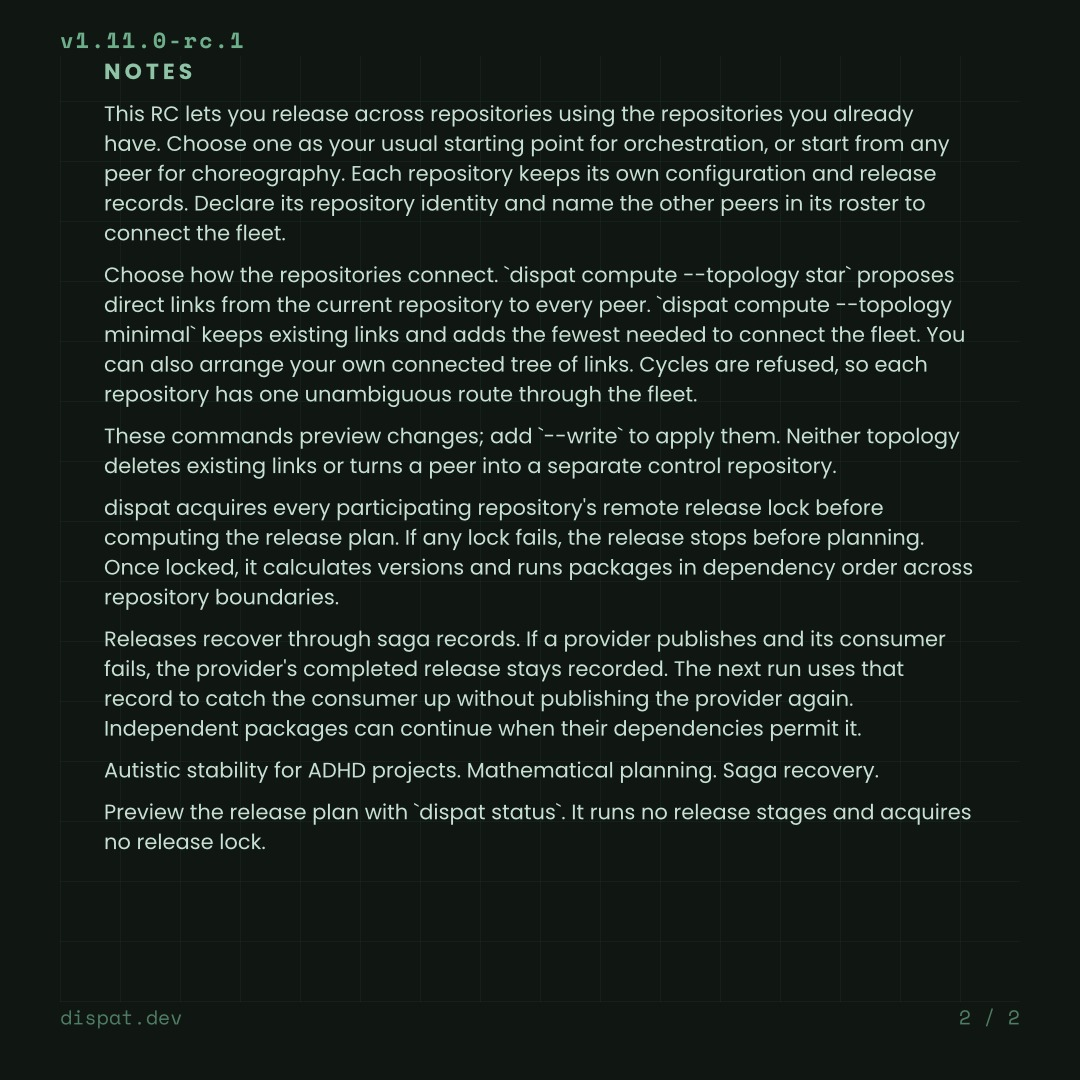
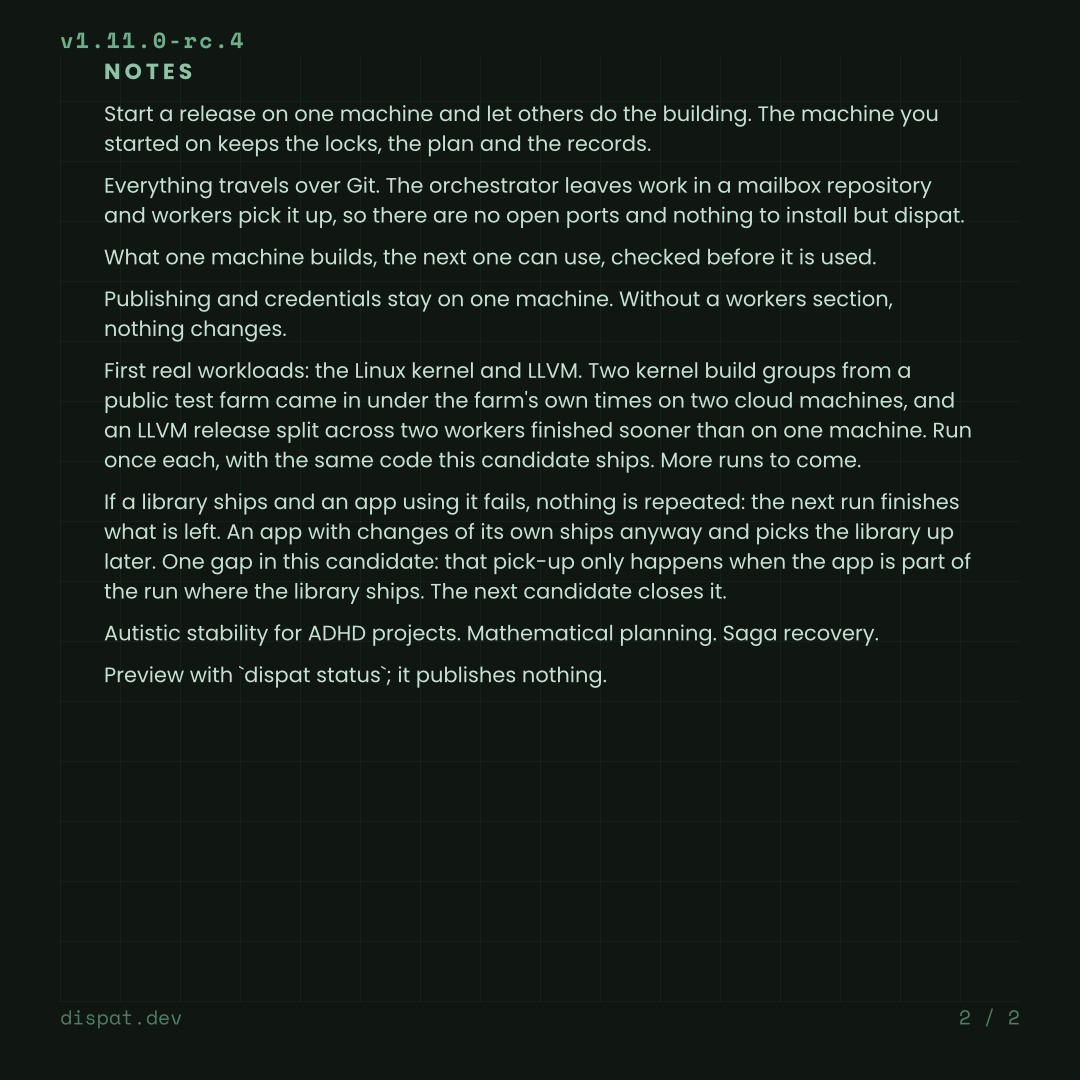
chore(dispat): announce the first parity runs in the release candidate notes
The candidate's caption and card now say, in plain words, what this
candidate was first tried on: two Linux kernel build groups from a
public test farm that came in under the farm's own times on two cloud
machines, and an LLVM release split across two workers that finished
sooner than on one machine, each run once with the code this candidate
ships. The worker-node paragraphs are shortened to the same register,
the recovery paragraph keeps the known gap and says the next candidate
closes it, and seven hashtags are added. The card carries the same
words and the previews are re-rendered for this candidate (crier 1.1.0
dry run: LinkedIn and Instagram 1913 of 2200 characters, Discord 726 of
2000).

Changed region(s): [[0.0917, 0.0917, 0.9167, 0.7944], [0.2139, 0.0306, 0.2444, 0.0611]]

diff --git a/services/dispat/announce/rc/template.html b/services/dispat/announce/rc/template.html
@@ -230,18 +230,14 @@
 
   <div class="notes">
     <h2>NOTES</h2>
-    <p>A release can run its build commands on other machines. The machine it started on keeps the release locks, the plan, every authorization and every record.</p>
-    <p>The transport is Git alone. An orchestrator pushes an assignment to a mailbox repository and a worker polls it, so no worker needs an inbound network address. Run `dispat worker` on each machine.</p>
-    <p>Declared build outputs travel between dependent packages, verified before they are installed, so a consumer reads the folder its provider built without committing it.</p>
-    <p>Publishing stays on the orchestrator unless a package asks otherwise, and a space with a login script always publishes there, so credentials stay on one machine.</p>
-    <p>Adding machines widens what can affect a release. Read the security section: a mailbox holds source and command text, and machines sharing one signing secret are one trust zone.</p>
-    <p>With no `execution` object, a release runs exactly as it always did.</p>
-    <p>Linked repositories are unchanged: orchestrate from one repository, or release from any of them, with no control repository.</p>
-    <p>If a library releases but an app using it fails, the successful release stays recorded. The next run finishes what remains rather than releasing the library again.</p>
-    <p>The other direction works too. If an app has changes of its own it releases even when the library it uses failed, and its manifests name the version the library actually published. When the library publishes later, the app is released again to pick it up.</p>
-    <p>Known departure in this candidate: that catch-up happens only when the app is in the run where the library publishes. A library published in a run the app sat out leaves the app on the old version until the app changes; the specification's owed windows and E201 close this in the next candidate.</p>
+    <p>Start a release on one machine and let others do the building. The machine you started on keeps the locks, the plan and the records.</p>
+    <p>Everything travels over Git. The orchestrator leaves work in a mailbox repository and workers pick it up, so there are no open ports and nothing to install but dispat.</p>
+    <p>What one machine builds, the next one can use, checked before it is used.</p>
+    <p>Publishing and credentials stay on one machine. Without a workers section, nothing changes.</p>
+    <p>First real workloads: the Linux kernel and LLVM. Two kernel build groups from a public test farm came in under the farm's own times on two cloud machines, and an LLVM release split across two workers finished sooner than on one machine. Run once each, with the same code this candidate ships. More runs to come.</p>
+    <p>If a library ships and an app using it fails, nothing is repeated: the next run finishes what is left. An app with changes of its own ships anyway and picks the library up later. One gap in this candidate: that pick-up only happens when the app is part of the run where the library ships. The next candidate closes it.</p>
     <p>Autistic stability for ADHD projects. Mathematical planning. Saga recovery.</p>
-    <p>Check the plan with `dispat status`. It publishes nothing and takes no release locks.</p>
+    <p>Preview with `dispat status`; it publishes nothing.</p>
   </div>
 </body>
 </html>

diff --git a/services/dispat/announce/README.md b/services/dispat/announce/README.md
@@ -36,10 +36,10 @@ Crier posts a caption whole, and the platforms refuse a long one: Discord at 200
 
 Nothing checks those two by machine. After a rewrite, read the card's preview against the caption, and print each platform's resolved caption with `crier publish --dry-run --json` to see its length.
 
-The [cover preview](rc/preview-1.jpg) and [notes preview](rc/preview-2.jpg) show the draft for the planned `1.11.0-rc.1` release:
+The [cover preview](rc/preview-1.jpg) and [notes preview](rc/preview-2.jpg) show the draft for the planned `1.11.0-rc.4` release:
 
 ```sh
-DISPAT_NEW_VERSION=1.11.0-rc.1 crier render --config services/dispat/announce/rc/crier.yaml
+DISPAT_NEW_VERSION=1.11.0-rc.4 crier render --config services/dispat/announce/rc/crier.yaml
 ```
 
 ## Stable releases
